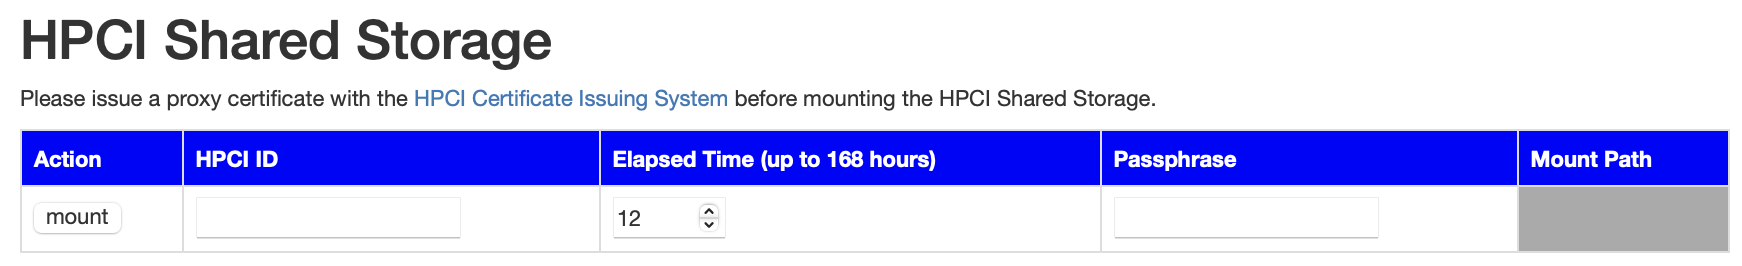
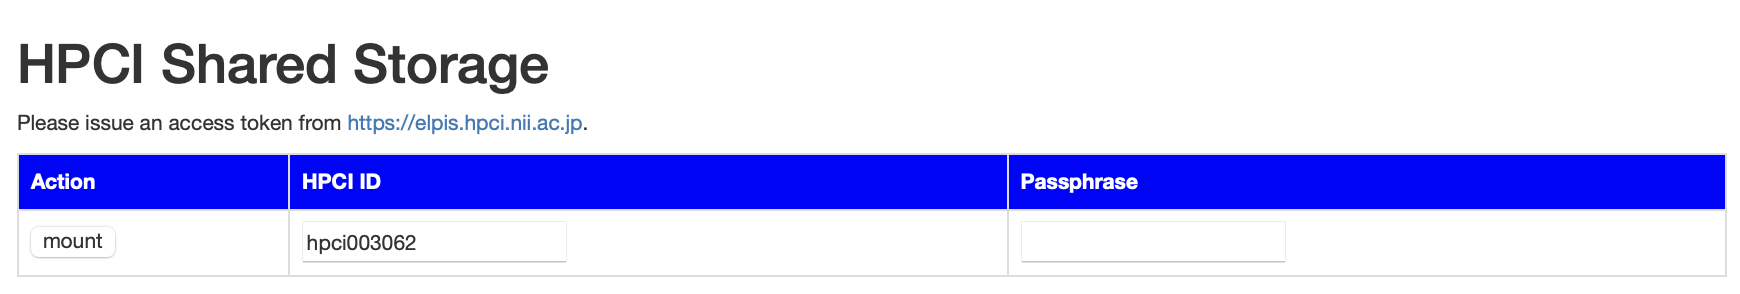
Fix manual for OAuth

diff --git a/docs/index_ja.html b/docs/index_ja.html
@@ -141,12 +141,11 @@
         
         <h3>HPCI共用ストレージ</h3>
         <p>
-          <a href="https://www.hpci-office.jp">HPCI (High Performance Computing Infrastructure)</a>が提供するHPCI共用ストレージに対するファイル操作を行えます。本アプリを利用するためには、<a href="https://portal.hpci.nii.ac.jp/auth-portal/Proxycert/proxycert">HPCI証明書発行システム</a>から代理証明書を事前に発行しておく必要があります。
+          <a href="https://www.hpci-office.jp">HPCI (High Performance Computing Infrastructure)</a>が提供するHPCI共用ストレージに対するファイル操作を行えます。本アプリを利用するためには、<a href=" https://elpis.hpci.nii.ac.jp.">JWT-SERVER</a>からパスフレーズを事前に発行しておく必要があります。
         </p>
         <ul>
-          <li>HPCI ID：HPCIのID（例：hpci00xxxx）</li>
-          <li>Elapsed Time：利用時間（最大168時間）</li>
-          <li>Passphrase：代理証明書を発行したときに入力したパスフレーズ</li>
+          <li>HPCI ID：（例：hpci00xxxx：JWT-SERVERのページでパスフレーズを生成したときに「USER : hpci00xxxx」と表示される）</li>
+          <li>Passphrase：パスフレーズ</li>
         </ul>
         <p>
           <img style="border:solid 1px #000000" alt="HPCI Shared Storage" src="./img/hpci.png" width="600" />
